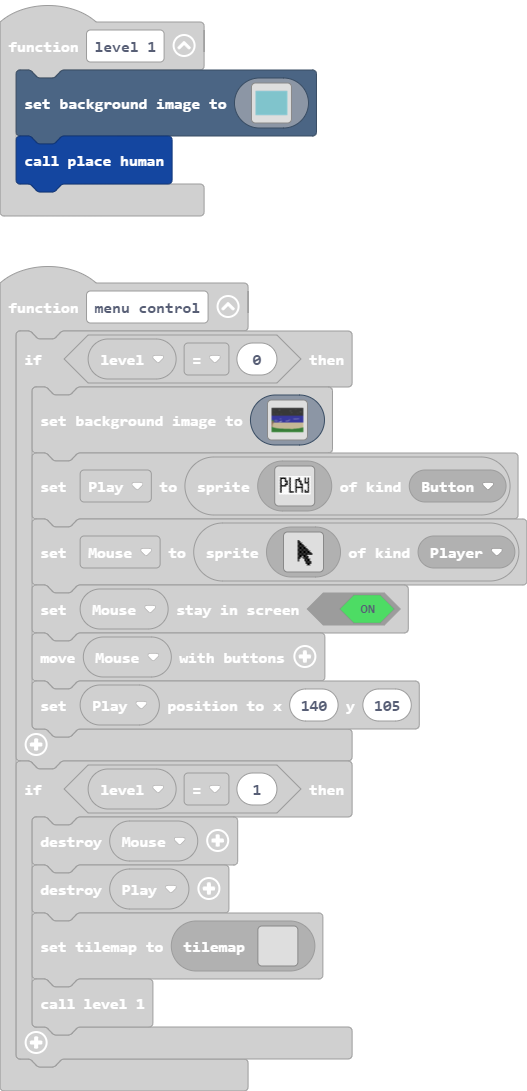
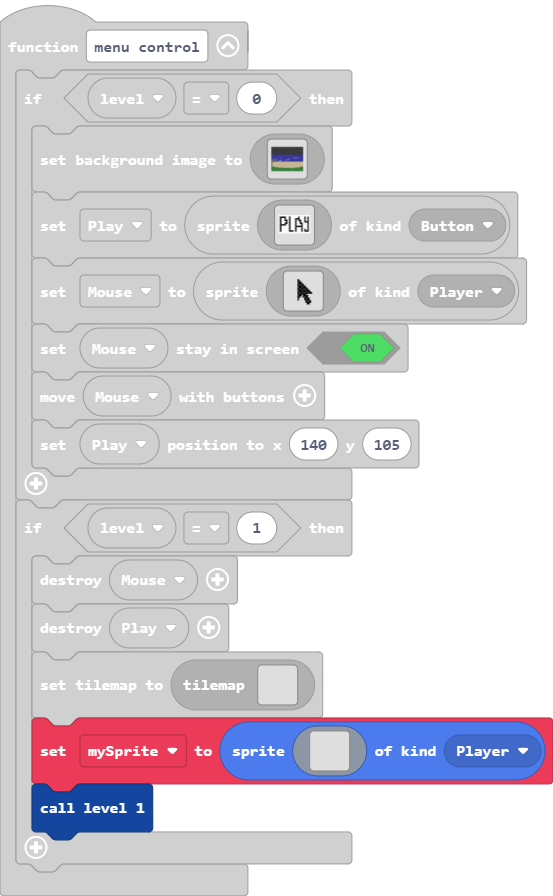
Update main.blocks, main.ts

diff --git a/main.ts b/main.ts
@@ -330,9 +330,28 @@ function menu_control () {
         sprites.destroy(Mouse)
         sprites.destroy(Play)
         tiles.setCurrentTilemap(tilemap`level2`)
+        mySprite = sprites.create(img`
+            . . . . . . . . . . . . . . . . 
+            . . . . . . . . . . . . . . . . 
+            . . . . . . . . . . . . . . . . 
+            . . . . . . . . . . . . . . . . 
+            . . . . . . . . . . . . . . . . 
+            . . . . . . . . . . . . . . . . 
+            . . . . . . . . . . . . . . . . 
+            . . . . . . . . . . . . . . . . 
+            . . . . . . . . . . . . . . . . 
+            . . . . . . . . . . . . . . . . 
+            . . . . . . . . . . . . . . . . 
+            . . . . . . . . . . . . . . . . 
+            . . . . . . . . . . . . . . . . 
+            . . . . . . . . . . . . . . . . 
+            . . . . . . . . . . . . . . . . 
+            . . . . . . . . . . . . . . . . 
+            `, SpriteKind.Player)
         level_1()
     }
 }
+let mySprite: Sprite = null
 let Mouse: Sprite = null
 let Play: Sprite = null
 let Human: Sprite = null
